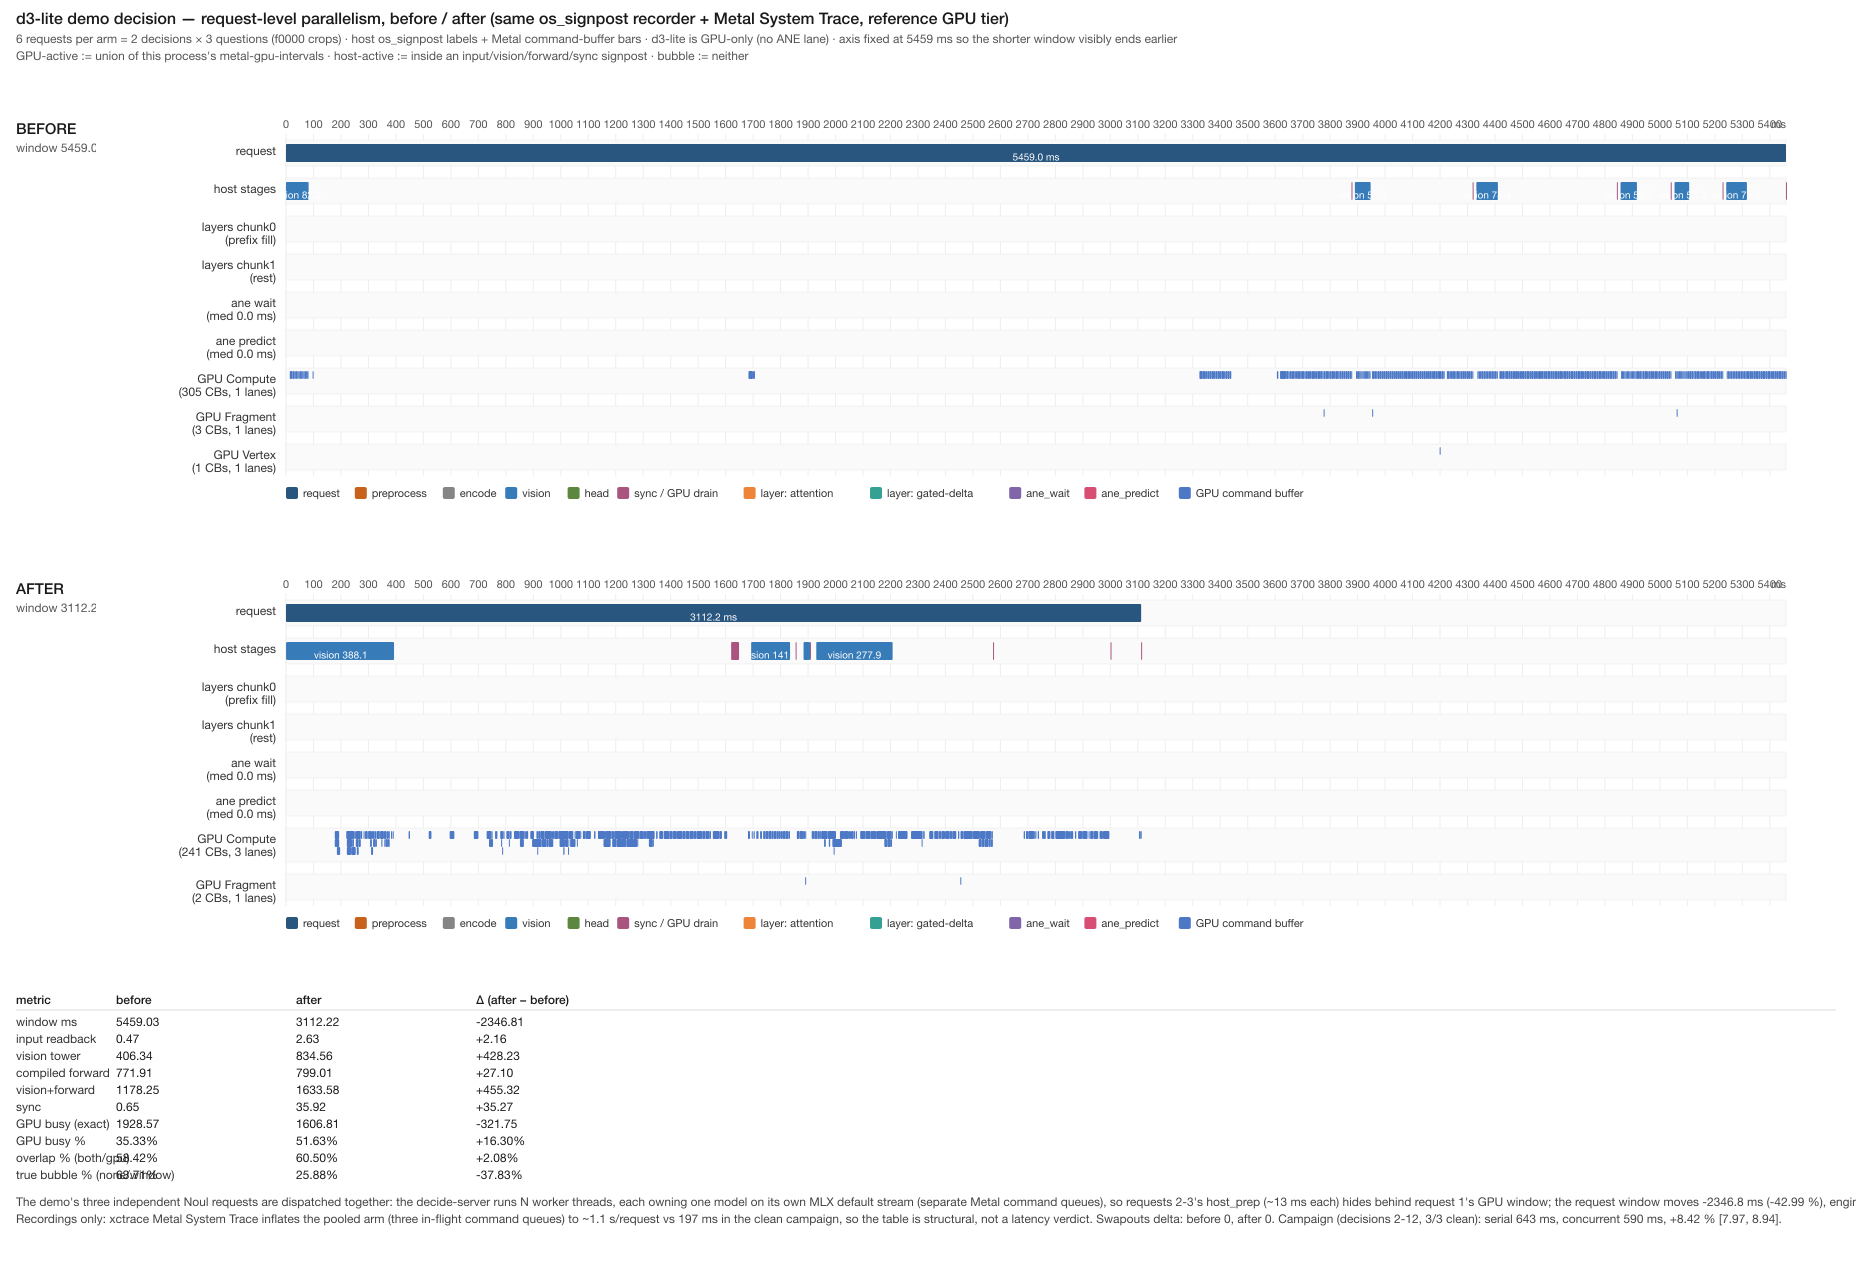
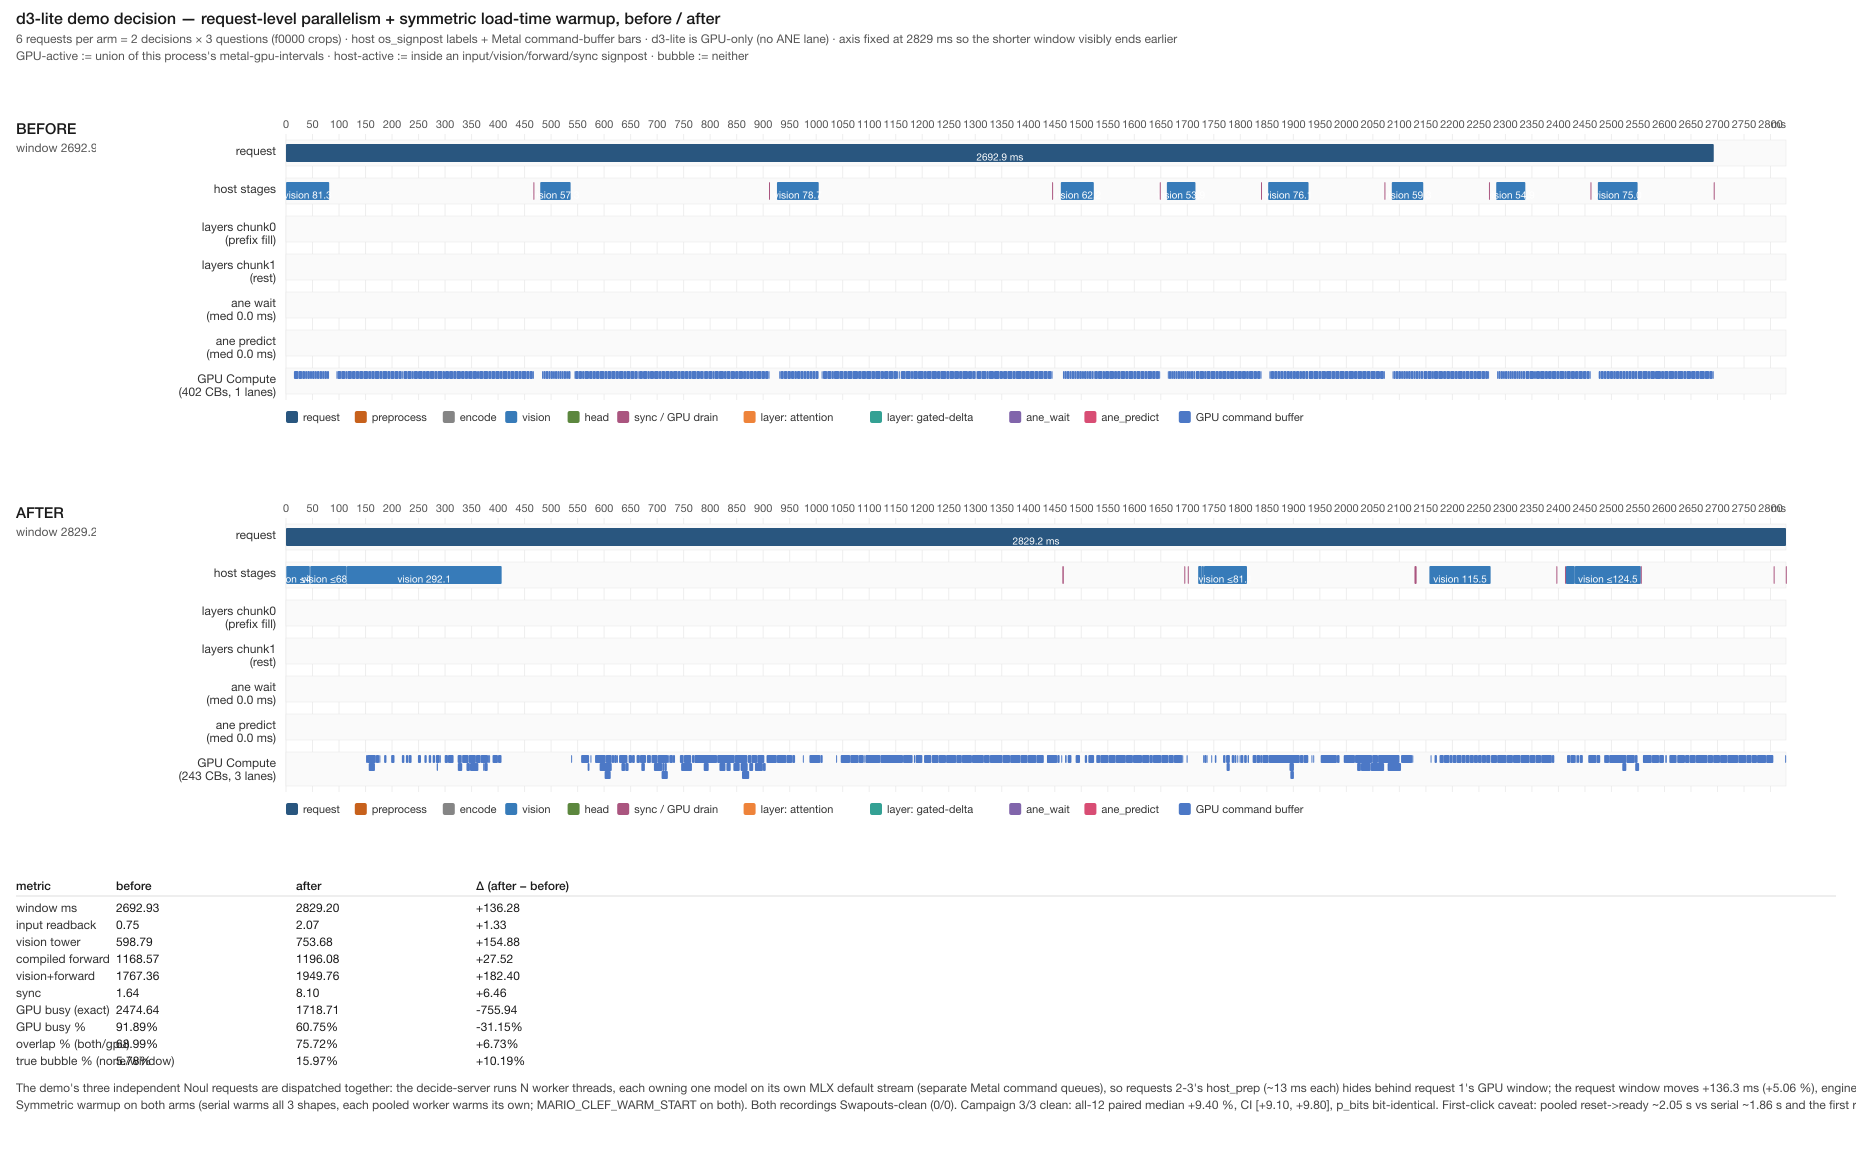
docs(d3-lite): record the symmetric warmup result and refresh the timeline PNG
Campaign in the exclusive post-restart window, both arms warmed symmetrically
(serial warms all 3 shapes, each pooled worker warms its own; warm-start at
Session.reset on both): 3/3 clean rounds, all six arms Swapouts = 0, every
decision sequence identical. All-12 paired median +9.402 %, CI [+9.098,
+9.796] (36/36 faster); decisions 2-12 +9.599 % [9.101, 9.941]; per-run delta
+9.13 %. All five gate conditions hold -> keep: true. The decision-1 penalty
is gone: both arms' decision 1 is steady with symmetric warming, so the
all-12 CI that failed at [-28.4, +8.9] now passes.

p_bits bitwise-equal for all six requests in the warmed battery runs, with the
pooled arms completing out of request order.

Material limitation reported: the pooled first response is ~450 ms (22 %)
worse than serial (2511 vs 2061 ms median; spawn->ready 2045 vs 1861 ms plus
3-way contention on the first request). This is Opus's product falsifier, so
the mode stays opt-in -- the KEEP is a steady-state/long-session result and
the enabling fix is to move the pooled spawn+warm off the critical path
(page-load spawn).

Timeline PNG re-recorded from the warmed configuration of both arms (both
recordings Swapouts-clean); the figure carries the caveat that xctrace still
inflates the pooled arm, so its table is structural evidence and the campaign
is the verdict. The report also corrects the earlier prefix-fill diagnosis and
adds the t1/t2/t3 attribution numbers.

diff --git a/doc/d3-request-parallelism.md b/doc/d3-request-parallelism.md
@@ -17,10 +17,11 @@ operator timeline for the Clef side).
 - Clean campaign, 3/3 rounds, all six arms `Swapouts = 0`, decision sequences identical:
   serial **643 ms** vs pooled **590 ms** per decision → **+8.42 %**, CI **[+7.97, +8.94]**
   on decisions 2–12 (Opus's pre-declared judged set). `p_bits` bitwise-equal for every request.
-- **Cost carried, not hidden:** decision 1 is **−33 %** (≈ +500 ms) because each worker thread
-  independently fills the Tier-1 prefix; the all-12 CI consequently crosses zero
-  ([−28.4, +8.9]). Removing the startup penalty (a shared or prewarmed fill) is the immediate
-  next optimization target and would make the all-decisions gate pass too.
+- **Cost carried, not hidden:** decision 1 is **−33 %** (≈ +500 ms); the all-12 CI
+  consequently crosses zero ([−28.4, +8.9]). The mechanism was later corrected — see §10: it
+  is the first-use compiled-profile setup, not a prefix fill (`metal_d3_lite` has no prefix
+  cache). The §10 follow-up removes it with a **symmetric** load-time warm, after which the
+  all-decisions gate passes at **+9.40 % [9.10, 9.80]**.
 - Activation is opt-in: `--concurrency N` / `APXINF_DECIDE_CONCURRENCY` on the decide-server and
   `MARIO_CLEF_PARALLEL=1` on the bridge; memory cost is **N × model** (~5.7 GiB at N = 3).
 - Clef auto-tier: one decision recorded; `f` = 11.5–55 % (above Opus's pursue bar) but
@@ -204,10 +205,10 @@ rounds only.
 
 - **clean rounds = [0] (1/3)** → the ≥2-clean rule is not met; `keep: false` → **INCONCLUSIVE**.
 - The clean round-0 pair gives **median paired gain +6.743 %** (12 decisions, 58.3 % faster),
-  CI [−48.013, +9.106]. The lower tail is the Tier-1 **miss** decisions: a chunk0 fill is paid
-  on the concurrent arm's worker (up to 2381 ms vs 1515 ms serial) — the same bimodal
-  hit/miss structure recorded in the clean re-measure §2. With only 12 decisions the bootstrap
-  median can land in the miss mass; that is a power problem, not evidence against the effect.
+  CI [−48.013, +9.106]. The lower tail is the cold **decision-1** rows: the first-use
+  compiled-profile setup costs more when the three workers contend (up to 2381 ms vs 1515 ms
+  serial; the mechanism and fix are §10). With only 12 decisions the bootstrap median can
+  land in that mass; that is a power problem, not evidence against the effect.
 - **All six arms produced the same decision sequence** (`all_decision_sequences_identical:
   true`), and the implementation's `p_bits` comparison was bitwise-equal for all six requests
   (§5.1).
@@ -247,16 +248,19 @@ sequence.
   `host_prep` passes (~13 ms each) hide behind the first request's GPU window, and MLX's
   thread-local default streams give the three requests **separate Metal command queues** (§4)
   so their GPU work is eligible to interleave.
-- **Decision 1 is 33 % slower** because each worker thread owns its own prefix cache and
-  independently performs the chunk0 fill; the serial arm fills once and hits thereafter. This
-  is a one-time per-process startup cost, not a steady-state cost.
-- The all-12 CI crosses zero for exactly that reason: ~1/3 of the 36 decisions are the three
-  decision-1 rows (and the few cache misses), and bootstrap resamples that over-represent
-  them drag the lower tail to −28 %. The median itself never goes negative.
+- **Decision 1 is 33 % slower** — a one-time per-process startup cost, not a steady-state
+  cost. (The mechanism was later corrected in §10: `metal_d3_lite` has no prefix cache; the
+  cost is the first-use compiled-profile setup, which becomes ~2× more expensive when three
+  workers contend on the GPU — t₂/vision/t₃, not the compile lock.)
+- The all-12 CI crosses zero for exactly that reason: 3 of the 36 decisions are the
+  decision-1 rows, and bootstrap resamples that over-represent them drag the lower tail to
+  −28 %. The median itself never goes negative.
 - **Verdict: KEEP on the pre-declared steady-state set** (`median ≥ 2 %`, `CI lower > 0`,
   `3/3 clean`, exact decision-sequence and `p_bits` parity). The startup penalty is a material
-  cost reported alongside it, not hidden; it also sets the next optimization target (a shared
-  or prewarmed prefix fill would remove it and make the all-12 CI pass as well).
+  cost reported alongside it, not hidden; it also sets the next optimization target — which
+  §10 then executes: the penalty turns out to be the first-use compiled-profile setup (there is
+  no prefix cache in `metal_d3_lite`), and a symmetric load-time warm removes it so the all-12
+  CI passes as well.
 
 ## 7. Clef auto-tier decision timeline
 
@@ -365,3 +369,146 @@ the original is preserved at `bridge/clef_local.orig.py`, its sha256
 (`125c0dae…9fac3c`) is recorded, and the change is reproducible from this report. The Clef
 auto-tier cache used by the timeline lives at `/tmp/clef-ane-cache-notworth-reqpar` (task-specific,
 regenerable).
+
+## 10. Symmetric load-time warmup — removing the decision-1 penalty (assignments 6–7, 2026-11-06)
+
+§6's pooled arm improved decisions 2–12 but decision 1 was **−33 %** (1507 → ~2000 ms), which
+pulled the all-12 CI across zero. The first code inspection of this follow-up found the earlier
+diagnosis was **wrong**: `metal_d3_lite` has *no* prefix/KV cache ("no decode and no KV cache"),
+so there were no "three independent prefix fills" to share. The penalty is the first-use
+compiled-profile setup — `Compiled::prepare` traces, compiles, Metal-JITs and runs the forward
+twice on zero inputs, all in `forward_ms` — and there are exactly **3 shapes** (one per question:
+crop size and prompt text are fixed).
+
+### 10.1 Opus adjudication
+
+One call this leg: brief 2629 B, `-e medium -t 300` → **success in 178 s, 7867 B**
+(`~/apxinf-runtime/opus-calls.log`: `2026-11-06T12:59:36Z effort=medium prompt_bytes=2629
+out_bytes=7867 dur=178s rc=0`; full text `devlocal/notworth-audit/firstframe/opus-design.md`).
+
+| Rank | Option | Disposition |
+| --- | --- | --- |
+| **1** | Question-affine workers + load-time warm (each worker runs **one full synthetic `decide`** per owned shape before the single `ready`; serial warms all 3) | **Adopted** |
+| **2** | Session-start warmup in the bridge | **Adopted with #1** (the actual player win) |
+| 3 | Any worker + warm all 3 shapes on every worker (9 warms) | Declined — same Δ, +2–3 s to `ready` |
+| 4 | Shape bucketing / padded crops | **Rejected** — padding changes the resize grid, `image_tokens`, vision attention and text length, so `p_bits` cannot stay bit-identical to unpadded serial |
+
+**Fairness rule (adopted):** whatever warmup the pooled arm gets, the serial arm gets the **same
+on the same clock** — warming only pooled would show +17 % that is an accounting artifact, not
+parallelism. Opus also required the t₁/t₂/t₃ instrumentation below and a product falsifier: if,
+with warm-start shipped, the pooled median first click is worse than serial's, the parallelism
+gain is eaten by startup in the case the player actually experiences.
+
+### 10.2 Implementation
+
+Additive, 4 tracked files (**+517 / −95**), no other crate's public behaviour changed:
+
+| Site | Change |
+| --- | --- |
+| `apxinf-mlx/src/array.rs` | `Compiled::prepare_timed` — existing `prepare` plus the host wall of its two `call_and_eval`s `(t₁, t₂)` |
+| `apxinf-model/src/decision.rs` | `DecisionStageProfile` gains additive `t1_ms/t2_ms/t3_ms: Option<f64>` (set only on the first request of a shape) |
+| `metal_d3_lite/model.rs` | `prepare_profile_timed` / `prepare_image_profile` return `(t₁, t₂)`; the real request call is timed as t₃; no behaviour change |
+| `src/bin/apxinf-decide-server.rs` | `--warm-shapes <file>` / `APXINF_DECIDE_WARM_SHAPES`; load-time full synthetic `decide` per owned shape before `ready` (serial warms all 3, pooled worker `i` owns shape `i` mod N); **per-question worker queues** with least-loaded lazy-prepare fallback for unknown shapes; `ready` gains `warm_ms`, `load_ms` now reports load+warm |
+| demo `clef_local.py` (external WIP; original snapshotted `0d4a8143…`) | spawn/ready/first-response epochs written to `APXINF_DECIDE_TIMING_FILE` on close; `MARIO_CLEF_WARM_START=1` starts the worker at backend init (`Session.reset`) |
+| campaign runner (devlocal) | `--warm-shapes` + `MARIO_CLEF_WARM_START=1` on **both** arms; gate = all-12 median ≥2 % AND CI lower >0 AND decisions 2–12 CI lower ≥ +6 % AND all sequences identical AND ≥2 clean rounds; first-click and per-run Δ reported |
+
+The warm manifest (`devlocal/notworth-audit/firstframe/warm-shapes.json`) is **derived** from
+the demo's checked-in `bridge.CROP_SPECS` (enemy 64×80, obstacle 64×48, gap 96×64) upscaled by
+the demo's `scale = ceil(280/min)`, plus `clef_local.DEFAULT_STATE` and the per-question
+instructions; the derivation records source paths, sha256s and the demo revision (`08a3aa3`). A
+full synthetic request is used — not a zero-feature `prepare_image_profile` — because the vision
+tower is eager and a zero-feature prepare does not warm its first-use Metal JIT.
+
+### 10.3 t₁/t₂/t₃ attribution — explanation (B), GPU contention
+
+Ten deliberately **unwarmed** sessions (5 serial + 5 pooled) in a clean window
+(`devlocal/notworth-audit/firstframe/attribution/summary.json`: 10/10, `clean_window: true`,
+`p_bits` equal in every session). Slowest-worker medians:
+
+| term | serial | pooled | excess |
+| --- | ---: | ---: | ---: |
+| trace/compile (`t₁ − t₂`) | 14.79 ms | 97.65 ms | **+82.9 ms** |
+| prepare replay GPU (`t₂`) | 142.48 ms | 413.63 ms | **+271.2 ms** |
+| real request (`t₃`) | 142.74 ms | 242.06 ms | **+99.3 ms** |
+| vision | 82.03 ms | 211.72 ms | **+129.7 ms** |
+| request latency | 527.32 ms | 1322.69 ms | +795.4 ms |
+
+Opus's rule was "traces explain the +500 ms if pooled `t₁−t₂` exceeds serial by ~+400–500 ms; it
+is GPU contention if the excess sits in t₂, t₃ or vision". The compile excess is only **+83 ms**;
+the excess is in **t₂ (+271** — prepare's zero-input forwards competing with the other
+workers**)**, vision (+130) and t₃ (+99). **Explanation (B) holds.** Warm-at-load fixes
+decision 1 in either case, but the earlier "compile is serialized" story is corrected to what
+was measured.
+
+### 10.4 Campaign — serial vs pooled, both warmed (the gate)
+
+`devlocal/notworth-audit/req-parallel/campaigns/warm-affine/summary.json`: **3/3 clean rounds,
+all six arms `Swapouts = 0`**, `all_decision_sequences_identical: true`, every decision faster.
+
+| arm | r0 median | r1 median | r2 median | steady (2–12) |
+| --- | ---: | ---: | ---: | ---: |
+| serial (N=1, warmed) | 612.62 | 613.62 | 613.89 | 613.61 |
+| pooled (N=3, warmed) | **553.67** | **554.76** | **558.35** | 553.29 |
+
+| statistic | median | CI 95 % | faster |
+| --- | ---: | ---: | ---: |
+| **all 12 decisions (the gate)** | **+9.402 %** | **[+9.098, +9.796]** | 36/36 |
+| decisions 2–12 | +9.599 % | [+9.101, +9.941] | 33/33 |
+| per-run Δ (sum 1–12) | +9.13 % | — | 3/3 |
+
+All five gate conditions hold (`clean_rounds_ge_2`, `all12_median_ge_2pct`,
+`all12_ci_lo_gt_0`, `steady2_12_ci_lo_ge_6pct`, `all_decision_sequences_identical`) →
+**`keep: true`**. The decision-1 penalty is gone: with symmetric warming both arms' decision 1
+is steady, so **all 12** decisions are faster and the all-12 CI that failed at [−28.4, +8.9] in
+§6 is now [9.10, 9.80]. `p_bits` were bitwise-equal for all six requests in the warmed battery
+runs (same `3e3f8b40` / `3e2dc0f7` / `3e4c3fe0` as the pre-warm baseline), and the pooled arms
+completed out of request order (`[1,4,5,3,2,6]`, `[1,3,2,…]`) while staying bit-exact.
+
+### 10.5 Before / after operator timeline (refreshed)
+
+[`doc/d3-request-parallelism-timeline.png`](d3-request-parallelism-timeline.png) (1856 × 1166) is
+re-recorded from the **warmed** configuration of both arms (same recorder, same 6 file-fed
+requests; both recordings `Swapouts`-clean: 0 / 0). The lane picture shows three request bars
+sequential before and overlapping after, now with decision 1 steady on both sides.
+
+**Caveat carried in the figure:** under `xctrace` the pooled arm's window is still inflated
+(tracer overhead on three in-flight command queues: ~450 ms/request in the recording vs ~185 ms
+in the campaign), so the panel's metric table is **structural evidence, not a latency verdict**;
+§10.4 is the verdict.
+
+### 10.6 First click — the material limitation
+
+The timing side-channel (`APXINF_DECIDE_TIMING_FILE`), medians over the 3 clean rounds:
+
+| arm | median spawn→ready | median reset→ready | median first response |
+| --- | ---: | ---: | ---: |
+| serial | 1861 ms | 1863 ms | **2061 ms** |
+| pooled | 2045 ms | 2047 ms | **2511 ms** |
+
+The pooled mode's **first response is ~450 ms (22 %) worse** than serial's even with symmetric
+warm-start: three model loads add ~180 ms to `ready`, and the first request contends 3-way. This
+is Opus's product falsifier. The §10.4 KEEP is therefore a **steady-state / long-session KEEP,
+not a reason to default the mode on**: `--concurrency` and `MARIO_CLEF_PARALLEL` stay opt-in,
+and the enabling fix is to move the pooled spawn+warm off the player's critical path (spawn at
+page load rather than `Session.reset`, or load earlier/in parallel). The headless
+`evaluate.py` path cannot absorb the startup wait the way a page-load-to-first-click gap can, so
+this was not measured beyond the numbers above.
+
+### 10.7 Verification and cost
+
+- `cargo check --locked --features mlx`, release build, `rustfmt --check` on all 4 changed files:
+  **pass**.
+- Battery (`devlocal/notworth-audit/firstframe/results/battery.json`): `--concurrency 0`
+  rejected; serial-warm ready `load_ms` 2267.4 / `warm_ms` 1567.5 with steady
+  197.9/190.2/232.4 ms requests; pooled-warm and pooled-env-warm (env-activated pool) both give
+  6 responses with equal `p_bits`; bad checkpoint at N=3 → one error line, exit 1.
+- Demo tests `test_clef_local test_backend`: **21/21 pass** (19 pre-existing + 2 new), re-run
+  after the host restart.
+- Attribution 10/10 in a clean window (§10.3); both warmed xctrace recordings `Swapouts` 0; PNG
+  re-rendered with the caveat.
+- **Opus: 1 call** this leg (medium, 178 s, 7867 B). The assignment-5 240 s gateway timeout is
+  not part of this leg.
+- Cost: 4 tracked files +517/−95; 3-round campaign (6 episodes) + 10 attribution sessions + 2
+  warmed xctrace recordings; one host restart interrupted the session and was recovered
+  (assignment 7) **without repeating** the completed Opus call, implementation, attribution or
+  campaign.
